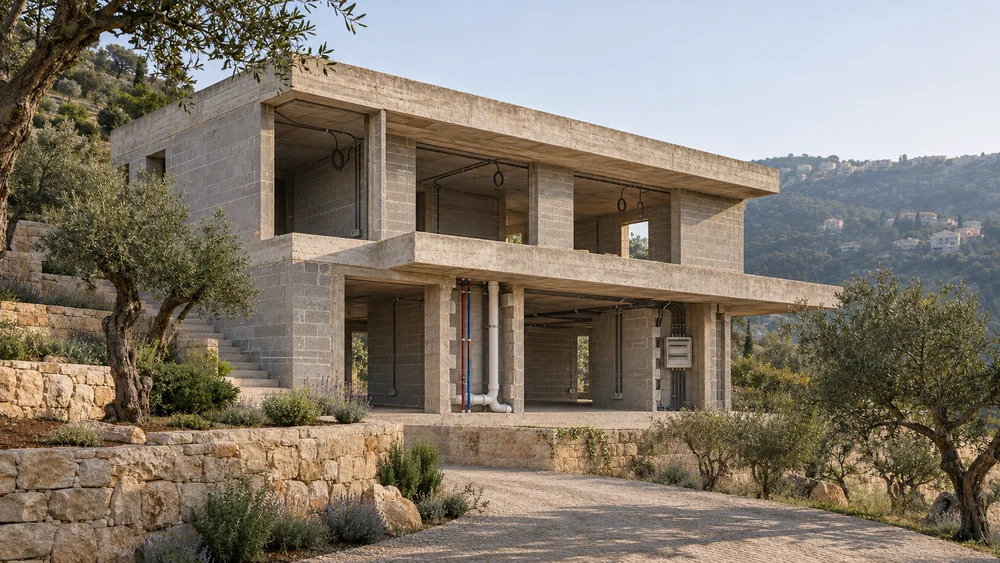
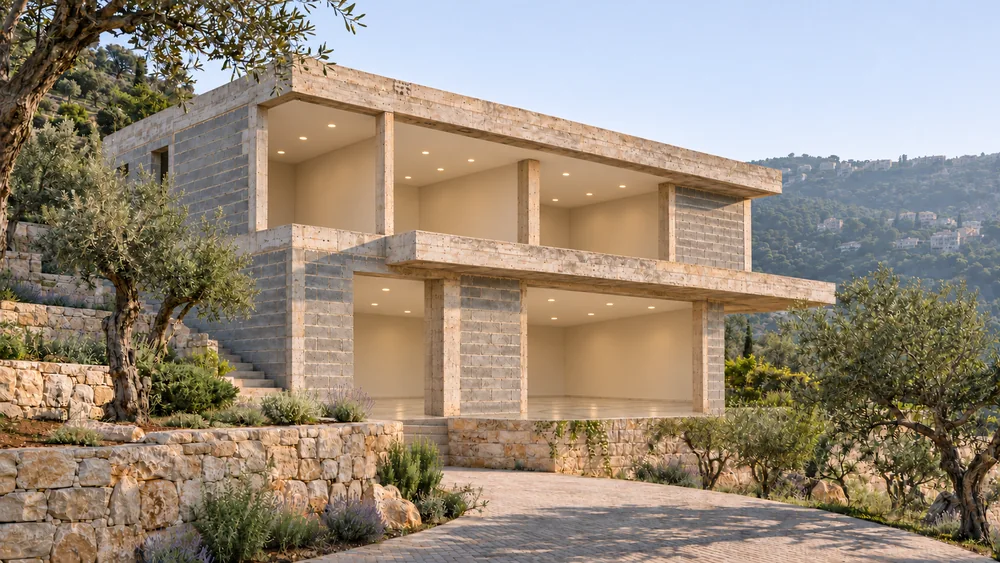
Show finished interiors in villa stage six

diff --git a/src/content.js b/src/content.js
@@ -20,7 +20,7 @@ export const content = {
     headline: ['Results First.', 'Payment Follows.'],
     hero: 'We deliver first. You pay for what is done — not for what is promised.',
     explore: 'Explore the Build', start: 'Start a Project',
-    concept: 'Concept villa · AI visualization',
+    shareAlt: 'Finished hillside villa with limestone walls and olive trees',
     stage: 'Stage', progress: 'Construction progress', stagesLabel: 'Construction stages',
     previous: 'Previous stage', next: 'Next stage', scrollCue: 'Scroll to build',
     imageLoading: 'Loading stage image…', imageUnavailable: 'Stage image unavailable.',
@@ -31,14 +31,14 @@ export const content = {
       ['Ground-floor frame', 'Concrete columns and beams support the first elevated slab. The lower stair flight connects the levels.'],
       ['First-floor frame and roof', 'The upper frame, concrete stair and flat roof with parapet complete the structural skeleton.'],
       ['Concrete-block infill', 'Hollow concrete blocks are laid in staggered courses. Openings for doors and windows stay in place.'],
-      ['Plumbing and electrical first fix', 'The open façade reveals water supply, PVC drainage, electrical conduits and the distribution board.'],
-      ['Envelope and finishes', 'Waterproofing is followed by limestone, plaster, glazing, terrace tiles, ceilings, railings and lighting.'],
+      ['Interior finishing', 'Freshly painted interiors, installed lighting and marble floors are visible through the open façade.'],
+      ['Envelope and finishes', 'Limestone cladding, glazing, railings and terrace finishes complete the exterior.'],
       ['Handover', 'The finished villa opens onto tiled terraces, a paved driveway and Mediterranean planting.'],
     ],
     pins: {
-      water: ['Water supply', 'Hot and cold supply lines run to the wet rooms through a shared service zone.'],
-      drain: ['PVC drainage', 'The waste run falls toward the outlet. The installed system is tested before handover.'],
-      power: ['Electrical distribution', 'Conduits connect the distribution board to lighting and electrical boxes.'],
+      paint: ['Interior painting', 'A smooth coat of paint finishes the interior walls and ceilings on both floors.'],
+      lighting: ['Installed lighting', 'Recessed downlights are fitted into the finished ceilings.'],
+      marble: ['Marble flooring', 'Light marble tiles finish the interior floors with subtle natural veining.'],
       stone: ['Limestone cladding', 'Coursed natural limestone adds texture to the plaster and aluminum envelope.'],
       tile: ['Terrace tiling', 'Exterior tiles sit above the terrace waterproofing and finish the walking surface.'],
     },
@@ -83,7 +83,7 @@ export const content = {
     headline: ['النتيجة أولاً', 'والدفع لاحقاً.'],
     hero: 'ننجز العمل أولاً. تدفع مقابل ما تمّ إنجازه والتحقّق منه.',
     explore: 'استكشف مراحل البناء', start: 'ابدأ مشروعك',
-    concept: 'فيلا تصوّرية · صور مولّدة بالذكاء الاصطناعي',
+    shareAlt: 'فيلا مكتملة على سفح جبل بواجهات من الحجر الجيري وأشجار زيتون',
     stage: 'المرحلة', progress: 'تقدّم أعمال البناء', stagesLabel: 'مراحل البناء',
     previous: 'المرحلة السابقة', next: 'المرحلة التالية', scrollCue: 'مرّر لمتابعة البناء',
     imageLoading: 'جارٍ تحميل صورة المرحلة…', imageUnavailable: 'صورة المرحلة غير متوفرة.',
@@ -94,14 +94,14 @@ export const content = {
       ['هيكل الطابق الأرضي', 'تحمل الأعمدة والجسور الخرسانية البلاطة الأولى، ويربط الجزء السفلي من الدرج بين المستويين.'],
       ['هيكل الطابق الأول والسقف', 'يكتمل الهيكل مع الطابق العلوي والدرج الخرساني والسقف المسطّح وحاجزه.'],
       ['جدران البلوك الخرساني', 'يُرصّ البلوك الخرساني المفرّغ في صفوف متداخلة، مع الحفاظ على فتحات الأبواب والنوافذ.'],
-      ['التمديدات الصحية والكهربائية الأولية', 'تكشف الواجهة المفتوحة تمديدات المياه والصرف من PVC والمواسير الكهربائية ولوحة التوزيع.'],
-      ['الغلاف والتشطيبات', 'بعد العزل المائي تُنفَّذ كسوة الحجر واللياسة والزجاج والبلاط والأسقف والدرابزين والإنارة.'],
+      ['التشطيبات الداخلية', 'تظهر من فتحات الواجهة المساحات الداخلية المطلية حديثاً، والإنارة المركّبة، والأرضيات الرخامية.'],
+      ['الغلاف والتشطيبات', 'تكتمل الواجهة مع كسوة الحجر الجيري والزجاج والدرابزين وتشطيبات التراسات.'],
       ['التسليم', 'تكتمل الفيلا مع تراسات مبلّطة ومدخل مرصوف ونباتات متوسطية.'],
     ],
     pins: {
-      water: ['إمداد المياه', 'تمتد خطوط المياه الساخنة والباردة إلى المناطق الرطبة عبر مسار خدمات مشترك.'],
-      drain: ['صرف صحي من PVC', 'ينحدر خط الصرف نحو المخرج ويُختبر النظام قبل التسليم.'],
-      power: ['التوزيع الكهربائي', 'تربط المواسير لوحة التوزيع بالإنارة وعلب الكهرباء.'],
+      paint: ['الدهان الداخلي', 'يكتمل تشطيب الجدران والأسقف الداخلية في الطابقين بطبقة دهان ناعمة.'],
+      lighting: ['تركيب الإنارة', 'تُركَّب وحدات الإنارة الغاطسة في الأسقف المشطّبة.'],
+      marble: ['أرضيات الرخام', 'يكسو بلاط الرخام الفاتح الأرضيات الداخلية بعروقه الطبيعية الهادئة.'],
       stone: ['كسوة الحجر الجيري', 'تضيف مداميك الحجر الطبيعي ملمساً إلى الواجهة المؤلفة من اللياسة والألمنيوم.'],
       tile: ['بلاط التراس', 'يغطّي البلاط الخارجي طبقة العزل المائي ويوفّر سطح المشي النهائي.'],
     },
@@ -146,7 +146,7 @@ export const content = {
     headline: ['D’abord les résultats.', 'Puis le paiement.'],
     hero: "Nous livrons d'abord. Vous payez pour ce qui est accompli — non pour ce qui est promis.",
     explore: 'Explorer la construction', start: 'Lancer un projet',
-    concept: 'Villa conceptuelle · Images générées par IA',
+    shareAlt: 'Villa achevée à flanc de colline, avec des murs en pierre calcaire et des oliviers',
     stage: 'Étape', progress: 'Avancement de la construction', stagesLabel: 'Étapes de la construction',
     previous: 'Étape précédente', next: 'Étape suivante', scrollCue: 'Défiler pour construire',
     imageLoading: 'Chargement de l’image…', imageUnavailable: 'Image de cette étape indisponible.',
@@ -157,14 +157,14 @@ export const content = {
       ['Ossature du rez-de-chaussée', 'Les poteaux et poutres en béton portent la première dalle haute. La première volée d’escalier relie les niveaux.'],
       ['Ossature de l’étage et toiture', 'L’ossature supérieure, l’escalier en béton et le toit plat avec acrotère complètent la structure.'],
       ['Remplissage en blocs de béton', 'Les blocs creux sont posés en rangs décalés, en conservant les ouvertures des portes et fenêtres.'],
-      ['Première pose de plomberie et d’électricité', 'La façade ouverte révèle l’alimentation en eau, l’évacuation en PVC, les gaines et le tableau électrique.'],
-      ['Enveloppe et finitions', 'L’étanchéité précède la pierre, les enduits, les vitrages, le carrelage, les plafonds, les garde-corps et l’éclairage.'],
+      ['Finitions intérieures', 'Les baies ouvertes laissent voir les pièces fraîchement peintes, les luminaires posés et les sols en marbre.'],
+      ['Enveloppe et finitions', 'Le parement en pierre calcaire, les vitrages, les garde-corps et les terrasses complètent l’extérieur.'],
       ['Remise des clés', 'La villa achevée s’ouvre sur des terrasses carrelées, une allée pavée et des plantations méditerranéennes.'],
     ],
     pins: {
-      water: ['Alimentation en eau', 'Les conduites d’eau chaude et froide desservent les pièces humides via une gaine technique commune.'],
-      drain: ['Évacuation en PVC', 'La conduite descend vers la sortie. Le réseau est testé avant la remise des clés.'],
-      power: ['Distribution électrique', 'Les gaines relient le tableau aux boîtiers et à l’éclairage.'],
+      paint: ['Peinture intérieure', 'Les murs et plafonds des deux niveaux reçoivent une finition peinte et lisse.'],
+      lighting: ['Luminaires posés', 'Les spots sont encastrés dans les plafonds finis.'],
+      marble: ['Sols en marbre', 'Des dalles de marbre clair aux veines naturelles habillent les sols intérieurs.'],
       stone: ['Parement en pierre calcaire', 'Les assises de pierre naturelle texturent la façade en enduit et aluminium.'],
       tile: ['Carrelage de terrasse', 'Le carrelage extérieur recouvre l’étanchéité et forme la surface de circulation.'],
     },

diff --git a/src/production.css b/src/production.css
@@ -103,13 +103,9 @@ h1 span + span { color: var(--orange); margin-block-start: 3px; }
 .experience { position: sticky; inset-block-start: var(--sticky-top); isolation: isolate; min-inline-size: 0; }
 .build-figure { border: 1px solid var(--dark-line); }
 .viewport, .trade-picture { background: #211f1a; }
-.viewport { position: relative; min-inline-size: 0; overflow: hidden; aspect-ratio: 16 / 9; max-block-size: 54svh; isolation: isolate; }
-.stage-frame { position: absolute; inset: 0; width: 100%; height: 100%; object-fit: cover; }
-.viewer-top, .scroll-cue { position: absolute; z-index: 2; }
-.viewer-top { inset-block-start: 17px; inset-inline-start: 18px; pointer-events: none; }
-.scene-label { display: inline-flex; align-items: center; gap: 8px; background: #151514; color: #eae5db; border: 1px solid #45413c; padding: 7px 9px; font-size: 0.68rem; font-weight: 650; line-height: 1.3; }
-.scene-label i { width: 6px; height: 6px; border-radius: 50%; background: var(--orange); flex: none; }
-.scroll-cue { display: none; align-items: center; gap: 6px; inset-inline-end: 18px; inset-block-end: 15px; padding: 6px 9px; background: #151514; color: #eae5db; border: 1px solid #45413c; font-size: 0.7rem; font-weight: 650; pointer-events: none; }
+.viewport { position: relative; inline-size: 100%; overflow: hidden; aspect-ratio: 16 / 9; max-block-size: 54svh; isolation: isolate; }
+.stage-frame { position: absolute; inset: 0; width: 100%; height: 100%; object-fit: cover; object-position: center 35%; }
+.scroll-cue { position: absolute; z-index: 2; display: none; align-items: center; gap: 6px; inset-inline-end: 18px; inset-block-end: 15px; padding: 6px 9px; background: #151514; color: #eae5db; border: 1px solid #45413c; font-size: 0.7rem; font-weight: 650; pointer-events: none; }
 .scroll-cue svg { width: 15px; height: 15px; }
 .enhanced:not(.reduce-motion) [data-stage="site"] .scroll-cue { display: flex; }
 .stage-image-status { display: grid; place-items: center; position: absolute; inset: 0; background: #211f1ad9; color: #f2efe9; z-index: 1; font-size: 0.86rem; pointer-events: none; }
@@ -181,7 +177,6 @@ html:not(.enhanced) :is(.stage-control, .stage-arrows) { visibility: hidden; }
 .service-grid { display: grid; grid-template-columns: minmax(0, 1.03fr) minmax(0, 1fr); gap: clamp(25px, 6vw, 96px); align-items: start; }
 .trade-picture { align-self: start; position: sticky; inset-block-start: var(--sticky-top); display: grid; overflow: hidden; }
 .trade-picture img { display: block; width: 100%; height: auto; }
-.trade-picture figcaption { width: 100%; align-self: end; padding: 12px 16px; color: #e5ded1; background: #151514; font-size: 0.76rem; }
 .trade { border-block-start: 1px solid var(--light-line); display: grid; grid-template-columns: 38px 1fr; gap: 14px; padding-block: 15px; }
 .trade:last-child { border-block-end: 1px solid var(--light-line); }
 .trade img { object-fit: contain; }
@@ -230,6 +225,9 @@ html:not(.enhanced) :is(.stage-control, .stage-arrows) { visibility: hidden; }
   .contact-grid { grid-template-columns: 1fr 1.5fr; }
   .contact-grid > div { grid-column: 1 / -1; }
 }
+@media (min-width: 701px) and (pointer: fine) {
+  .experience { inline-size: min(100%, 96svh, max(320px, calc((100svh - 355px) * 16 / 9))); margin-inline: auto; }
+}
 @media (max-width: 700px) {
   :root { --header-height: 74px; --sticky-top: calc(var(--header-height) + 7px); }
   .logo img { inline-size: 120px; }
@@ -242,8 +240,6 @@ html:not(.enhanced) :is(.stage-control, .stage-arrows) { visibility: hidden; }
   .build-intro .signoff { display: none; }
   .enhanced:not(.reduce-motion) .experience-track { min-block-size: calc(100svh + 207svh); }
   .viewport { aspect-ratio: 4 / 3; max-block-size: 39svh; }
-  .viewer-top { inset-block-start: 12px; inset-inline-start: 12px; }
-  .scene-label { max-inline-size: min(95vw - 72px, 275px); padding: 6px; font-size: 0.61rem; }
   .scroll-cue { inset-inline-end: 12px; inset-block-end: 11px; }
   .stage-caption { padding: 9px 10px; min-block-size: 96px; }
   .stage-copy > p:last-child { font-size: 0.72rem; margin-block-start: 4px; }
@@ -275,7 +271,6 @@ html:not(.enhanced) :is(.stage-control, .stage-arrows) { visibility: hidden; }
   .build-intro .signoff { display: none; }
   .location { margin-block-end: 11px; }
   .viewport { aspect-ratio: auto; block-size: clamp(115px, calc(100svh - 245px), 235px); max-block-size: none; }
-  .stage-frame { object-fit: contain; }
   .scroll-cue { inset-block-end: 5px; }
   .stage-caption { min-block-size: 75px; padding-block: 6px; }
   .stage-caption h2 { font-size: 0.94rem; }
@@ -288,6 +283,13 @@ html:not(.enhanced) :is(.stage-control, .stage-arrows) { visibility: hidden; }
 }
 @media (pointer: coarse) {
   #stage-progress { height: 44px; }
+}
+@media (max-height: 550px) and (orientation: landscape) and (pointer: coarse) {
+  .stage-frame { object-fit: contain; }
+}
+@media (max-height: 550px) and (orientation: landscape) and (pointer: fine) {
+  .experience { inline-size: min(100%, calc(clamp(115px, 100svh - 245px, 235px) * 16 / 9)); margin-inline: auto; }
+  .viewport { aspect-ratio: 16 / 9; block-size: auto; }
 }
 @media (prefers-reduced-motion: reduce) {
   .build-intro, .experience { position: static; }

diff --git a/src/render-page.js b/src/render-page.js
@@ -4,8 +4,7 @@ import { buildImageSizes, stageImage, stages } from './build-stages.js';
 const sections = ['build', 'about', 'services', 'partners', 'contact'];
 const partners = ['DCP — British Building Materials', 'HEK.HOUSE — Innovating Your Home'];
 const tradeIcons = ['tile', 'pipe', 'electricity', 'floor-plan'];
-const tradeStages = [6, 5, 5, 0];
-const tradePins = ['tile', 'water', 'power', ''];
+const tradeStageLinks = ['#stage-interior-finishing:marble', '', '', '#stage-site'];
 const symbols = {
   upRight: '<path d="M6 18 18 6M7 6h11v11"/>',
   down: '<path d="M12 4v15m-6-6 6 6 6-6"/>',
@@ -44,7 +43,7 @@ export function renderHead(locale, siteOrigin = '') {
     ${siteOrigin ? `<link rel="canonical" href="${t(absolute(paths[locale]))}">
     <meta property="og:url" content="${t(absolute(paths[locale]))}">
     <meta property="og:image" content="${t(absolute('/villa/share.webp'))}">
-    <meta property="og:image:alt" content="${t(data.concept)}">
+    <meta property="og:image:alt" content="${t(data.shareAlt)}">
     ${locales.map(code => '<link rel="alternate" hreflang="' + code + '" href="' + t(absolute(paths[code])) + '">').join('')}
     <link rel="alternate" hreflang="x-default" href="${t(absolute('/'))}">` : ''}
     <link rel="icon" href="/dar-icon.svg" type="image/svg+xml">
@@ -64,10 +63,10 @@ function logo(locale, variant) {
   return `<a class="logo" href="${paths[locale]}" aria-label="${t(company.name)}"><img alt="" src="/brand/dar-${variant}.webp" width="128" height="56"></a>`;
 }
 
-function stagePicture(index, main = false) {
+function stagePicture(index, main = false, alt = '') {
   const { src, srcset } = stageImage(index);
   const sizes = main ? buildImageSizes : '(max-width: 700px) 94vw, (max-width: 1512px) 43vw, 650px';
-  return `<img src="${src}" srcset="${srcset}" sizes="${sizes}" alt="" width="1670" height="940"
+  return `<img src="${src}" srcset="${srcset}" sizes="${sizes}" alt="${t(alt)}" width="1670" height="940"
     ${main ? 'id="stage-poster" class="stage-frame" data-frame="0" fetchpriority="high"' : 'loading="lazy" decoding="async"'}>`;
 }
 
@@ -109,7 +108,6 @@ function renderBuild(data) {
         <div class="experience" id="experience-panel" data-stage="site">
           <figure class="build-figure">
             <div class="viewport" id="villa-viewport">
-              <div class="viewer-top"><span class="scene-label"><i aria-hidden="true"></i>${t(data.concept)}</span></div>
               ${stagePicture(0, true)}
               <p class="scroll-cue">${icon('down')}${t(data.scrollCue)}</p>
               <p class="stage-image-status" id="stage-image-status" role="status"></p>
@@ -182,14 +180,13 @@ function renderServices(data) {
       <div class="section-intro"><p class="eyebrow section-label">${t(data.services[0])}</p><h2 id="services-title">${t(data.services[1])}</h2><p>${t(data.services[2])}</p></div>
       <div class="service-grid">
         <figure class="trade-picture">
-          ${stagePicture(7)}
-          <figcaption>${t(data.concept)}</figcaption>
+          ${stagePicture(7, false, data.shareAlt)}
         </figure>
         <div class="trade-list">
           ${data.trades.map(([heading, copy], index) => `
           <article class="trade">
             <img src="/brand/${tradeIcons[index]}.webp" width="38" height="38" alt="" loading="lazy">
-            <div><h3>${t(heading)}</h3><p>${t(copy)}</p><a class="text-link" href="#stage-${stages[tradeStages[index]].id}${tradePins[index] ? ':' + tradePins[index] : ''}">${t(data.showTrade)}${icon('upRight')}</a></div>
+            <div><h3>${t(heading)}</h3><p>${t(copy)}</p>${tradeStageLinks[index] ? `<a class="text-link" href="${tradeStageLinks[index]}">${t(data.showTrade)}${icon('upRight')}</a>` : ''}</div>
           </article>`).join('')}
         </div>
       </div>

diff --git a/src/build-stages.js b/src/build-stages.js
@@ -4,7 +4,7 @@ export const stages = [
   { id: 'ground-frame' },
   { id: 'upper-frame' },
   { id: 'infill' },
-  { id: 'first-fix', details: ['water', 'drain', 'power'] },
+  { id: 'interior-finishing', details: ['paint', 'lighting', 'marble'], imageVersion: 'interior' },
   { id: 'finishes', details: ['stone', 'tile'] },
   { id: 'handover' },
 ];
@@ -17,8 +17,10 @@ export const buildImageSizes = '(max-height: 550px) and (orientation: landscape)
 
 export function stageImage(index) {
   const path = '/villa/stage-' + (index + 1);
+  const version = stages[index]?.imageVersion;
+  const file = size => path + '-' + size + '.webp' + (version ? '?v=' + version : '');
   return {
-    src: path + '-wide.webp',
-    srcset: path + '-small.webp 640w, ' + path + '-medium.webp 1000w, ' + path + '-wide.webp 1670w',
+    src: file('wide'),
+    srcset: file('small') + ' 640w, ' + file('medium') + ' 1000w, ' + file('wide') + ' 1670w',
   };
 }

diff --git a/src/production.js b/src/production.js
@@ -179,8 +179,10 @@ function userJump(progress) {
 function followStageHash() {
   const match = /^#stage-([a-z-]+)(?::([a-z]+))?$/.exec(location.hash);
   if (!match) return;
-  const index = stages.findIndex(stage => stage.id === match[1]);
+  const id = match[1] === 'first-fix' ? 'interior-finishing' : match[1];
+  const index = stages.findIndex(stage => stage.id === id);
   if (index < 0) return;
+  if (id !== match[1]) history.replaceState(history.state, '', '#stage-' + id);
   if (motion.matches) track.scrollIntoView({ block: 'start' });
   jump(progressAt(index));
   stageButtons[index].focus({ preventScroll: true });

diff --git a/README.md b/README.md
@@ -40,7 +40,7 @@ The server applies same-origin checks, a honeypot, validation, timeouts and per-
 | `site-assets/villa/` | Three WebP sizes for each of the eight Cardboard stills, plus the share image |
 | `src/production.css` | Brand tokens, type, responsive layout and controls |
 
-For a direct stage link, use `/#stage-handover`, `/ar/#stage-first-fix:power` or `/fr/#stage-finishes:tile`. Each stage is an AI-generated concept still. The scroll position selects the visible image and the stage controls work in both directions. With reduced motion enabled, the controls select stills without moving the page.
+For a direct stage link, use `/#stage-handover`, `/ar/#stage-interior-finishing:marble` or `/fr/#stage-finishes:tile`. Each stage uses a generated still. The scroll position selects the visible image and the stage controls work in both directions. With reduced motion enabled, the controls select stills without moving the page.
 
 To replace the stage imagery, put the eight 16:9 PNGs in a folder with filenames starting `01-` through `08-`. Run `python tools/encode-stage-images.py <folder>` with Pillow installed, then `npm run build`.
 
@@ -60,5 +60,5 @@ The browser suite uses local Chrome, Chromium touch emulation and a local mock i
 
 - The supplied visual identity and DAR logo PNG exports informed the seven fixed WebP lockups. The guide’s construction icons are used for the four services.
 - Company facts and approved excerpts come from the supplied DAR company profile. Only the DCP and HEK.HOUSE artwork from the partner pages was extracted. The source profile and its confidential page are excluded from distribution.
-- The eight stills are the AI-generated images from the Cardboard project **DAR Villa — Construction Study**. The finished exterior is also used for the sharing image. The illustrated work is labeled as a concept. There is no Projects section because approved DAR project records and image rights were unavailable.
+- The stage stills originated in **DAR Villa — Construction Study**. The stage 6 still was revised for the website. The finished exterior is also used for the sharing image. There is no Projects section because approved DAR project records and image rights were unavailable.
 - Inter and Cairo are self-hosted from Fontsource under the SIL Open Font License. Copies are in `site-assets/licenses/`.
